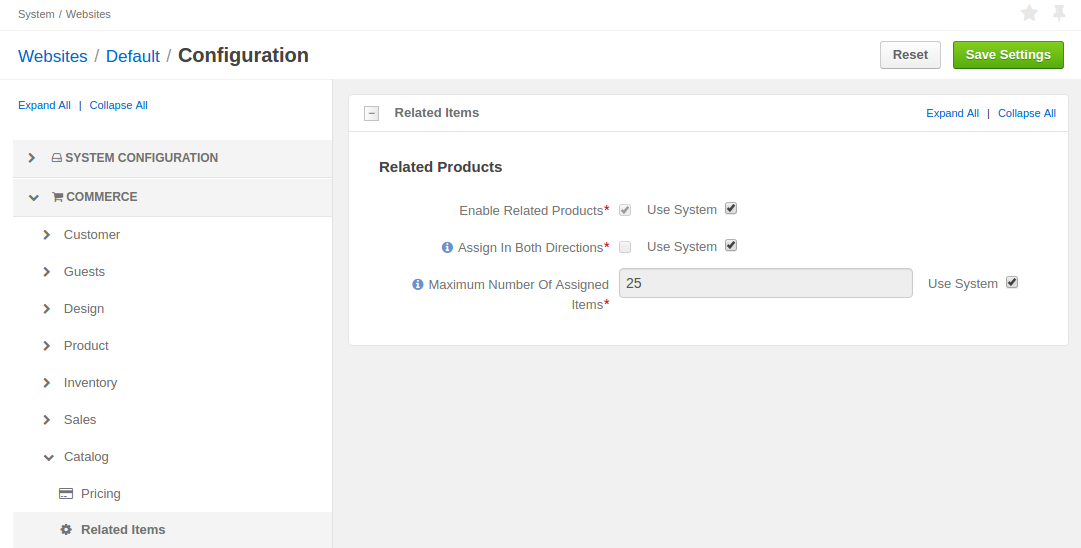
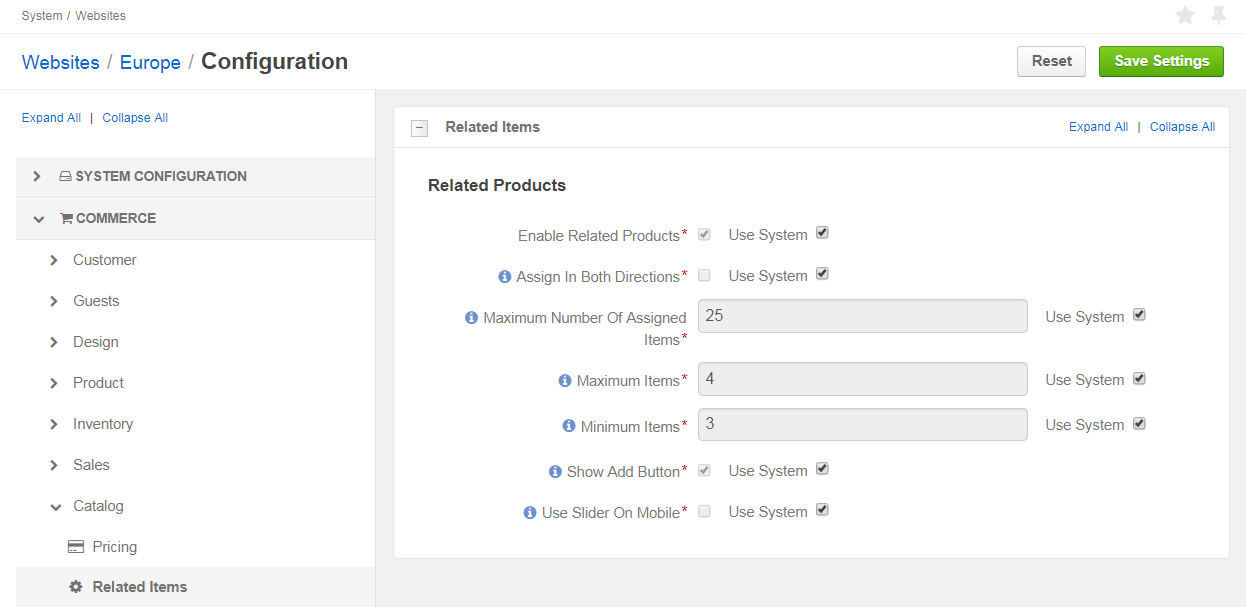
DOC-147: Documentation update. New config parameters for related products. (#11862)
* DOC-147: new config parameters

* DOC-147: Documentation update. New config parameters for related products.

-minor fixes (updated screens for org and web levels)
-fixed typo

diff --git a/user_guide/products/configuration/global_related_products.rst b/user_guide/products/configuration/global_related_products.rst
@@ -9,7 +9,7 @@ Enable Related Products Globally
 
 .. begin_related_products_definition
 
-Related items listed for the product may include accessories, services, and otehr items that are likely to be purchased in the same order.  They help navigation through the product catalog in the management console.
+Related items listed for the product may include accessories, services, and other items that are likely to be purchased in the same order.  They help navigation through the product catalog in the management console.
 
 .. TODO update when they get to the front store
 
@@ -40,6 +40,21 @@ To update the related products settings globally:
    * Enable Related Products --- Toggles managing related items on/off. Enabled by default.
    * Assign in Both Directions --- When enabled, the products become mutually related. For example, when you add a lightning bulb as a related product for a standing lamp, the relation works both ways and the lamp automatically becomes related item of the lightning bulb. This option is disabled by default.
    * Maximum Number Of Assigned Items --- A limit of related items that may be added to any product.
+   * Maximum Items --- A limit of related products that are shown to the buyer. Note: Some related items may be hidden by the visibility settings. If the list of related products still exceeds the limit, only the specified number of items (top of the list) will be shown.
+   * Minimum Items --- The minimum number of related products that may be shown to the buyer. If the actual number of products is less than this value, the related products section is hidden in the front store for the product.
+   * Show Add Button --- Enables a buyer to order the related product from the related products section in the main product details. When disabled, a buyer needs to open the related product information before they can add it to the shopping list.
+
+     **Show Add Button is Enabled**
+
+     .. image:: /user_guide/img/products/products/RelatedProductPreviewWithAdd.png
+        :class: with-border
+
+     **Show Add Button is Disabled**
+
+     .. image:: /user_guide/img/products/products/RelatedProductPreview.png
+        :class: with-border
+
+   * Use Slider On Mobile --- When enabled, one related product is displayed below the main product information. Other related products are accessible using the horizontal slider. Click < and > to slide through the related products.
 
    .. finish_related_products_option_description
 
